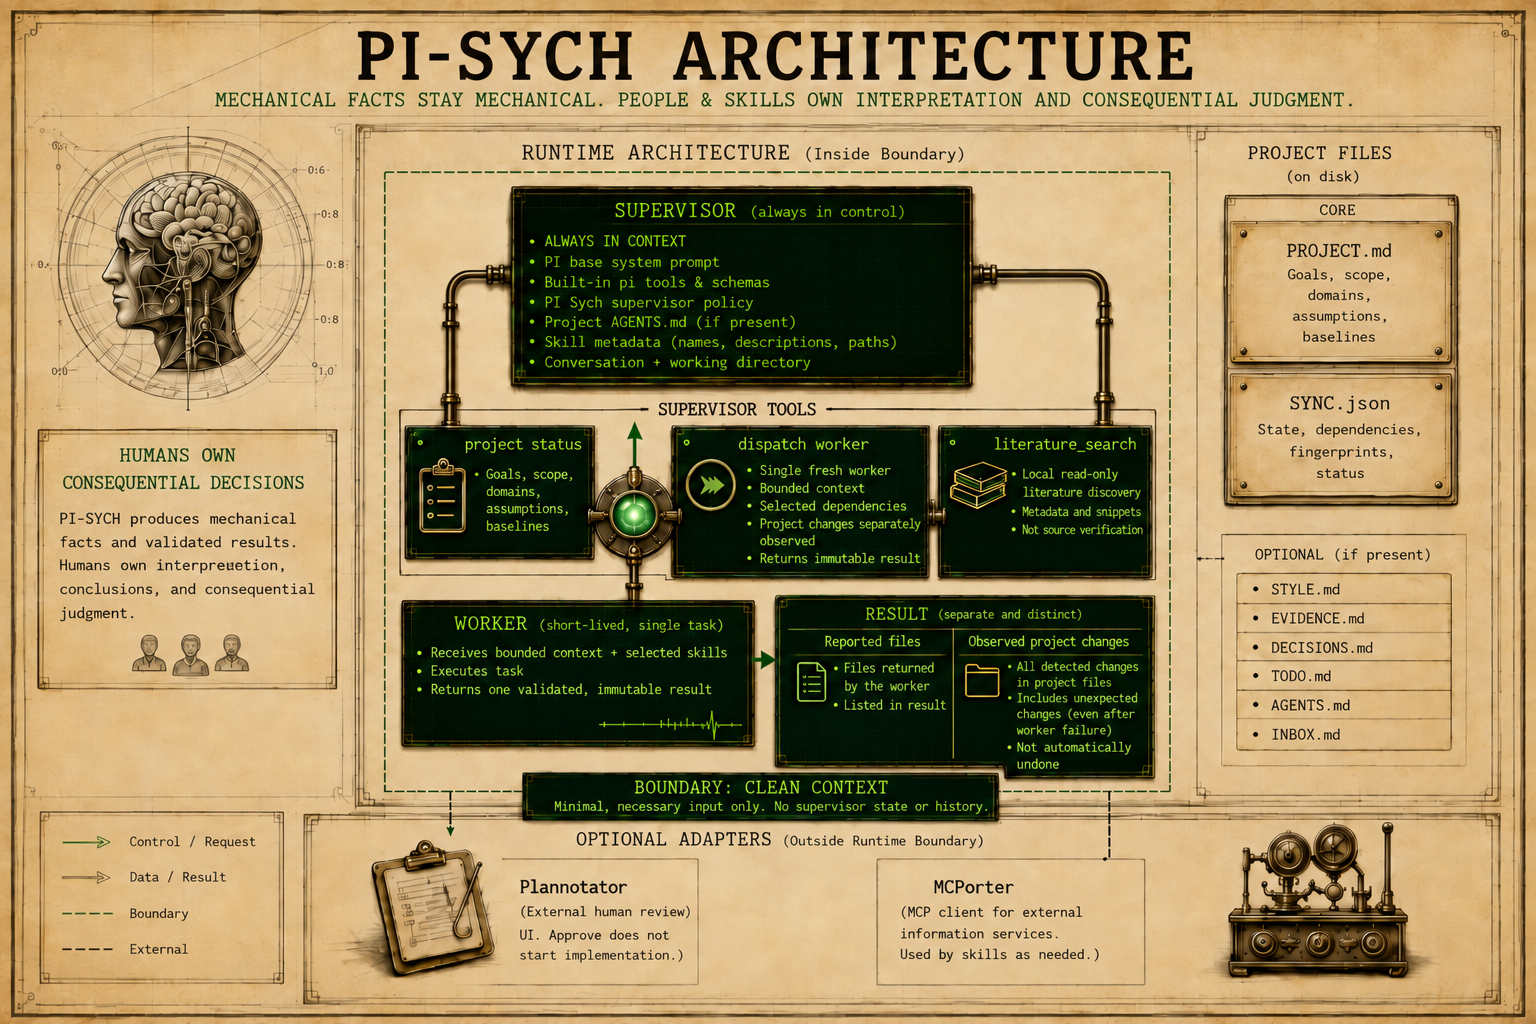
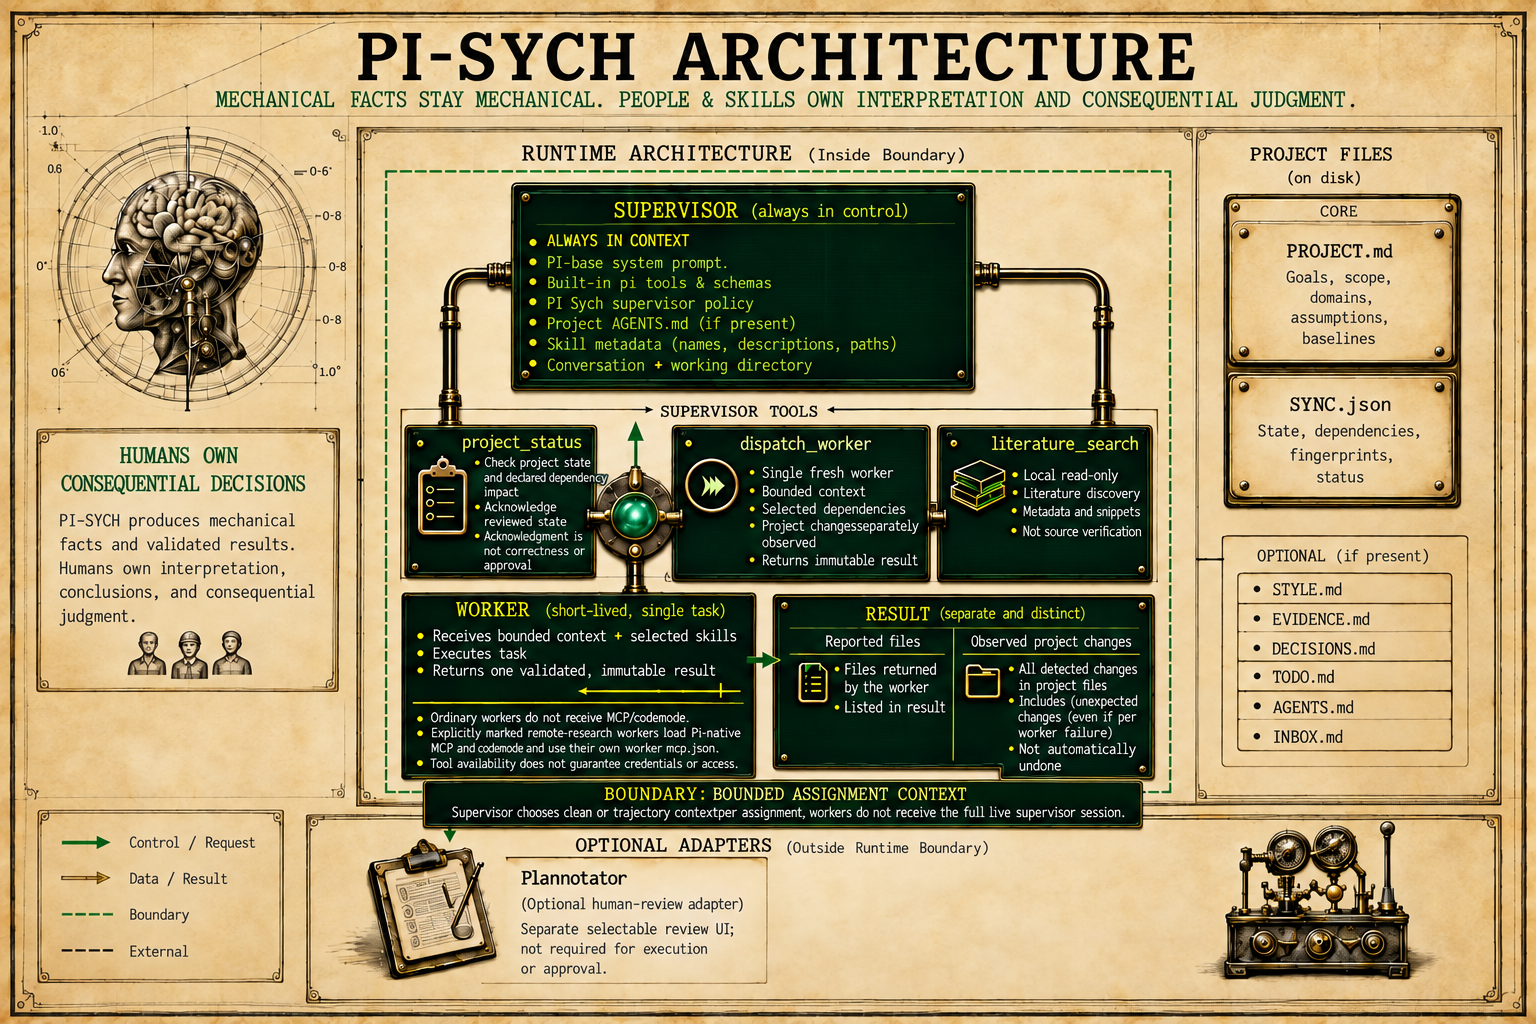
Finalize reviewed v8 architecture diagram and release preparation

diff --git a/docs/img/readme.md b/docs/img/readme.md
@@ -1,71 +1,22 @@
 # Documentation diagrams
 
-These notes track the repository's explanatory PNGs. The diagrams are
-illustrations, not executable architecture specifications; prose in the
-README, architecture, configuration, migration, and public-contract
-documentation is authoritative for details.
+The explanatory PNGs are illustrations, not executable architecture
+specifications. README, architecture, configuration, migration, and
+public-contract prose is authoritative for details.
 
-## Only pending image correction: `architecture.png`
+## Reviewed v8 assets
 
-The other explanatory images were checked against the current package:
-`workflow.png`, `supervisors_context.png`, `skills_architecture.png`,
-and `review_workflow.png` appear consistent with the current behavior.
-`logo.png` is artwork, not an architecture diagram. The architecture
-image already shows all three supervisor tools and the worker-change
-distinction, but it still shows the removed MCPorter integration and
-labels the worker boundary as clean-context-only. Update only
-`architecture.png` for these v8 discrepancies.
+`architecture.png` has been corrected and visually reviewed. It shows
+mechanical project check/acknowledge operations, clean-or-trajectory
+bounded assignment context, ordinary versus explicitly enabled remote-
+research workers using Pi-native MCP/codemode and their own `mcp.json`,
+and Plannotator as an optional review adapter. The obsolete MCPorter box
+and dangling connector are gone. Tool availability does not establish
+credentials or access; acknowledgement is not correctness or approval.
+Small labels may require opening the full-size image.
 
-### Paste-ready edit prompt
-
-Attach the existing `docs/img/architecture.png` and use this prompt:
-
-> Edit the attached Pi Sych architecture diagram in place. Keep its
-> sepia technical-blueprint style, dimensions, palette, central
-> supervisor/worker layout, project-files panel, and readable labels.
-> Make only the specific corrections below; do not redesign the diagram
-> or invent new behavior. Keep the three existing supervisor tool IDs:
-> `project_status`, `dispatch_worker`, and `literature_search`.
->
-> 1.  Correct the `project_status` card. Its current "Goals, scope,
->     domains, assumptions, baselines" lists project-brief content, not
->     the tool's check/acknowledge operations. Use concise wording such
->     as: `Check project state and declared dependency impact`;
->     `Acknowledge reviewed state`;
->     `Acknowledgement is not correctness or approval`.
-> 2.  In the worker boundary banner, replace `BOUNDARY: CLEAN CONTEXT`
->     and its clean-only explanation with
->     `BOUNDARY: BOUNDED ASSIGNMENT CONTEXT`. State briefly that the
->     supervisor may choose clean or trajectory context for a worker; do
->     not imply workers always lack prior context or receive the full
->     live supervisor session.
-> 3.  Remove the obsolete `MCPorter` box and all MCPorter/client or
->     companion-web inheritance claims. Do not depict MCPorter as part
->     of the current architecture.
-> 4.  In the worker area, add a concise accurate note: ordinary workers
->     do not receive MCP/codemode; explicitly marked remote-research
->     workers load Pi-native MCP and codemode and use their own worker
->     `mcp.json`. Tool availability does not guarantee credentials or
->     successful access. Keep this note legible and subordinate to the
->     main worker flow.
-> 5.  Keep Plannotator only as a separately selectable, optional human-
->     review adapter. It is not a required workflow step, plan
->     controller, or automatic approval/promotion mechanism. Rebalance
->     the bottom adapter area after removing MCPorter rather than adding
->     another adapter card.
-> 6.  Retain the existing distinction between worker-reported files and
->     observed project changes, including unexpected changes after
->     failure and the fact that observation does not undo changes.
->
-> Keep all labels correctly spelled and legible at normal README display
-> size. Do not add claims that workers are sandboxes, that configured
-> tools necessarily work, or that worker completion is approval. Return
-> an edited PNG at the original dimensions. Do not modify other images.
-
-Inspect the rendered output against `docs/ARCHITECTURE.md` and
-`docs/public-contract.md` before replacing the tracked image.
-
-## Image inventory
+The other explanatory images were checked against the current package
+and have no known v8-specific correction pending:
 
 - `workflow.png` is the general-audience overview: relevant skills and
   project files may help, workers are optional, and humans retain

diff --git a/PROJECT.md b/PROJECT.md
@@ -161,16 +161,16 @@ Metadata and snippets remain discovery evidence until the underlying
 source is inspected when exact claims, methods, results, quotations, or
 correction status matter.
 
-{verified} `PLAN.md` records prior v7 work; `TODO.md` tracks the
-remaining v8 verification gates. Five packaged review prompts remain
-thin and defer to the `review` skill. Custom compaction retains bounded
-observable trajectory at the settled boundary, preserves recorded
-decision labels without verification, appends only bounded unreviewed
-inbox proposals, never mutates canonical semantic files, and falls back
-to the native compactor on omission or failure. Worker dispatch now
-reports claimed, observed, and unreported project changes even after
-failure; observation does not roll back changes. Plannotator absence
-does not prevent core startup.
+{verified} `PLAN.md` records prior v7 work; `TODO.md` tracks v8 release
+execution until publication is verified. Five packaged review prompts
+remain thin and defer to the `review` skill. Custom compaction retains
+bounded observable trajectory at the settled boundary, preserves
+recorded decision labels without verification, appends only bounded
+unreviewed inbox proposals, never mutates canonical semantic files, and
+falls back to the native compactor on omission or failure. Worker
+dispatch now reports claimed, observed, and unreported project changes
+even after failure; observation does not roll back changes. Plannotator
+absence does not prevent core startup.
 
 {verified} Present-tense
 README/configuration/architecture/public-contract text describes seven
@@ -180,7 +180,7 @@ runtime source-code budget remains 3,200 lines.
 
 {verified} Repository-native formatting, documentation, type, budget,
 and test checks remain the acceptance boundary. The local package
-version is 8.0.0 preparation; publication is not authorized.
+version is 8.0.0; the owner has authorized completing its release.
 
 {verified} After revising reviewer-response guidance and repairing the
 benchmark fixtures, the five-case opt-in evaluation completed with
@@ -205,21 +205,22 @@ for a documentation fetch, not a worker MCP call.
 
 ## Previous action
 
-{verified} Added a paste-ready correction prompt for the only known
-stale explanatory image, `docs/img/architecture.png`; visually checked
-the other four explanatory diagrams. Added `completionReassessment`
-migration instructions and updated release-state notes to the actual
-pushed commit and successful exact-HEAD pipeline. Changes are
-documentation and release preparation; the architecture PNG itself is
-not yet regenerated.
+{verified} Corrected and visually reviewed `docs/img/architecture.png`;
+independent read-only review found no consequential diagram or package-
+content blockers. Local `make verify` passed 216 tests, including packed
+installs with and without optional dependencies; coverage was
+97.85/92.27/96.80% for lines/branches/functions. `make site`, package
+inventory inspection, and production audit passed (zero
+vulnerabilities). These checks must also pass on the final committed
+release revision.
 
 ## Immediate next step
 
-{user-explicit} Apply and inspect the documented image correction, then
-rerun the final package/content checks. The owner has not authorized a
-v8.0.0 tag or npm publication. The GitLab tag pipeline publishes the
-matching package to npm, so obtain explicit authorization before
-creating that tag.
+{user-explicit} Complete the v8.0.0 release, including the signed tag
+and its npm publication pipeline after exact-revision verification.
+Delete completed task state, but retain this ongoing project brief and
+its accepted constraints. Verify the published version and tagged
+revision before marking release execution complete.
 
 {unresolved} Model recognition of unfinished authorized work remains
 semantic, not mechanically guaranteed. Exa was not configured as a

diff --git a/TODO.md b/TODO.md
@@ -3,7 +3,8 @@
 The v8 implementation is on `main`; this file tracks the remaining release
 preparation, exact-revision checks, and limitations. The migration, public
 contract, architecture, and changelog documents describe the implemented
-behavior. This is not authorization to tag or publish.
+behavior. The owner has now authorized completing the release, including its
+signed tag and npm publication.
 
 ## Implemented locally
 
@@ -37,16 +38,16 @@ behavior. This is not authorization to tag or publish.
 
 ## Release gates
 
-- [ ] Apply the documented image-edit prompt in `docs/img/readme.md` to
-  `docs/img/architecture.png`; inspect the rendered labels and commit the
-  reviewed asset. The other explanatory images were checked and have no
-  known v8-specific correction pending.
-- [ ] On the final documentation/image revision, rerun `make verify` and
-  `make site`, confirm the exact-HEAD GitLab pipeline passes, and inspect
-  `npm pack --dry-run --json` contents plus a packed-install check.
-- [ ] After those gates, obtain explicit authorization for a signed release
-  commit/tag. The matching GitLab tag pipeline publishes `v8.0.0` to npm;
-  tag creation therefore has that external publication effect.
+- [x] Correct and visually inspect `docs/img/architecture.png` and obtain
+  independent read-only diagram/package-content review: no blockers.
+- [ ] Commit final documentation/image state, rerun `make verify` and
+  `make site`, and confirm the exact-HEAD GitLab pipeline passes. Local
+  checks already passed on the corrected image, including 216 tests,
+  packed installs, dry-run inventory inspection, and zero production
+  audit vulnerabilities.
+- [ ] Create the authorized signed `v8.0.0` tag, verify the publication
+  pipeline and exact npm version, then delete this completed task file.
+  Keep `PROJECT.md`: it owns ongoing accepted project constraints.
 
 ## Verified on current main
 
